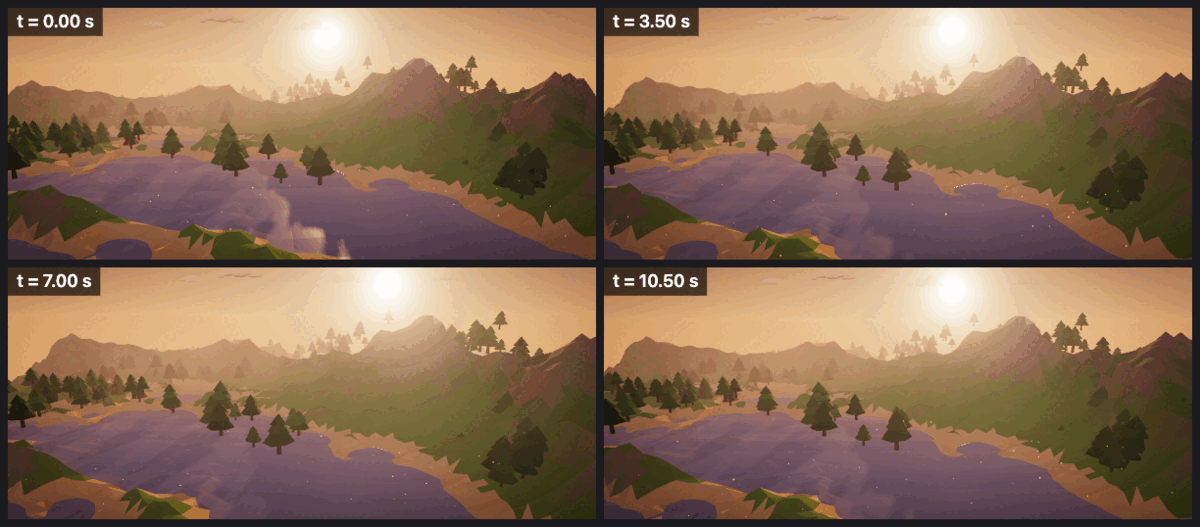
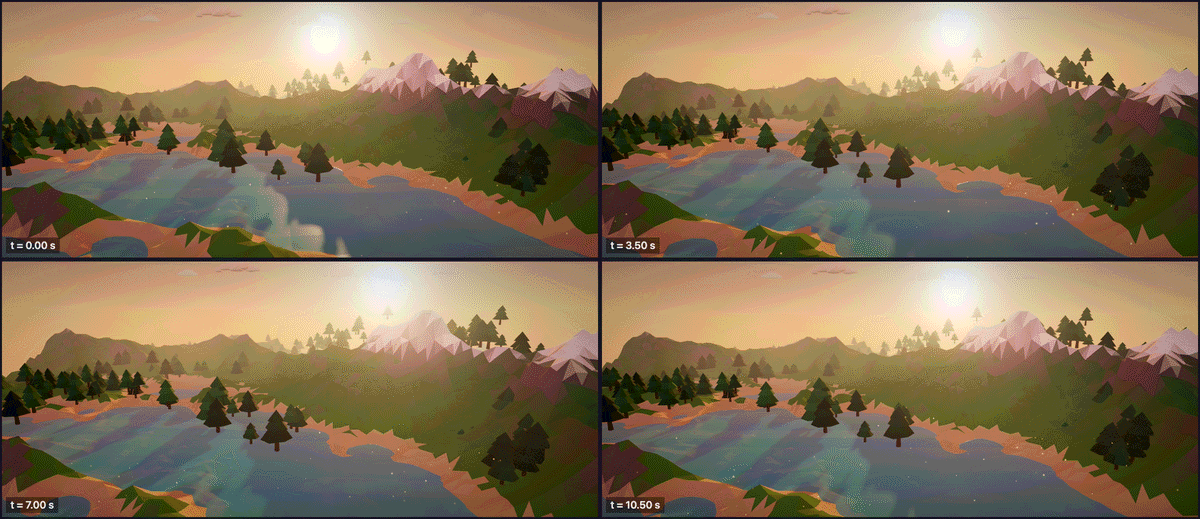
terrain: snowLine param (snow caps above a height fraction); landscape-valley-sunset: snowy peaks, teal lake, lighter fog

diff --git a/src/core/catalog.ts b/src/core/catalog.ts
@@ -144,7 +144,7 @@ export const GENERATORS: CatalogEntry[] = [
   {
     id: "terrain",
     description: "Heightmap terrain with colour bands (low-poly or smooth): hills, mountains, islands, dunes.",
-    params: [n("size", "Width/depth.", 40, 0), i("resolution", "Grid cells per side.", 96, 8, 512), n("height", "Max height.", 6, 0), n("scale", "Noise scale (bigger = wider features).", 1, 0), i("octaves", "Detail levels.", 5, 1, 8), e("shape", "Overall shape.", ["hills", "mountains", "island", "dunes", "canyon", "flat"], "hills"), cs("palette", "Colours from low to high (sand, grass, rock, snow).", ["#e2c290", "#6aa84f", "#38761d", "#7f6a5d", "#ffffff"]), b("lowpoly", "Faceted shading.", true), n("waterLevel", "Water surface height in world units (absolute, not a fraction of height); null = no water.", 0.6), c("waterColor", "Water colour.", "#3d9bd6")],
+    params: [n("size", "Width/depth.", 40, 0), i("resolution", "Grid cells per side.", 96, 8, 512), n("height", "Max height.", 6, 0), n("scale", "Noise scale (bigger = wider features).", 1, 0), i("octaves", "Detail levels.", 5, 1, 8), e("shape", "Overall shape.", ["hills", "mountains", "island", "dunes", "canyon", "flat"], "hills"), cs("palette", "Colours from low to high (sand, grass, rock, snow).", ["#e2c290", "#6aa84f", "#38761d", "#7f6a5d", "#ffffff"]), b("lowpoly", "Faceted shading.", true), n("waterLevel", "Water surface height in world units (absolute, not a fraction of height); null = no water.", 0.6), c("waterColor", "Water colour.", "#3d9bd6"), n("snowLine", "Height fraction (0..1, above the water) where the last palette colour (snow) caps the peaks; 1 = summit only.", 1, 0, 1)],
     cost: "resolution^2*2",
     material: "The ground (not the water plane). Without colour / preset / map the palette bands are kept (e.g. { \"roughness\": 0.6, \"flatShading\": false }).",
   },

diff --git a/src/runtime/generators/generators.test.ts b/src/runtime/generators/generators.test.ts
@@ -116,6 +116,19 @@ describe("generators", () => {
     expect(terrain.object.userData.waterLevel).toBe(0.6);
   });
 
+  it("terrain snowLine caps the high band with the last palette colour", async () => {
+    const whites = async (snowLine: number) => {
+      const t = await GENERATOR_IMPLS.terrain!({ resolution: 32, shape: "mountains", waterLevel: null, palette: ["#c9ad7f", "#5f8a3e", "#7a6a6e", "#ffffff"], snowLine }, makeCtx(1));
+      const col = (t.object.children[0] as THREE.Mesh).geometry.getAttribute("color");
+      let n = 0;
+      for (let i = 0; i < col.count; i++) if (col.getX(i) > 0.95 && col.getY(i) > 0.95 && col.getZ(i) > 0.95) n++;
+      return n / col.count;
+    };
+    const summit = await whites(1);
+    const capped = await whites(0.5);
+    expect(capped).toBeGreaterThan(summit + 0.03);
+  });
+
   it("terrain waterLevel null disables water", async () => {
     const t = await GENERATOR_IMPLS.terrain!({ resolution: 16, waterLevel: null }, makeCtx(1));
     expect(t.object.children.length).toBe(1);

diff --git a/src/runtime/generators/terrain.ts b/src/runtime/generators/terrain.ts
@@ -72,6 +72,7 @@ export const terrain: GeneratorImpl = (raw, ctx) => {
   const palette = p.colors("palette");
   const lowpoly = p.bool("lowpoly");
   const waterLevel = p.numOrNull("waterLevel");
+  const snowLine = p.num("snowLine");
   const ox = ctx.rng.range(-500, 500);
   const oz = ctx.rng.range(-500, 500);
   const h01 = terrainHeightFn(shape, size, p.num("scale"), p.int("octaves"), ox, oz);
@@ -125,6 +126,11 @@ export const terrain: GeneratorImpl = (raw, ctx) => {
     // steep → rock (second to last colour), except on the snow band
     const steep = smoothstep(0.5, 0.85, slope);
     if (steep > 0 && t < 0.9) out.lerp(palette[Math.max(1, pal - 2)]!, steep * 0.8);
+    // snow cap above snowLine (last colour); the steepest faces stay rocky
+    if (snowLine < 1 && pal >= 3 && t > snowLine - 0.04) {
+      const k = smoothstep(snowLine - 0.04, snowLine + 0.04, t) * (1 - smoothstep(0.75, 1.1, slope) * 0.7);
+      out.lerp(palette[pal - 1]!, k);
+    }
     return out;
   };
 

diff --git a/templates/landscape-valley-sunset/README.md b/templates/landscape-valley-sunset/README.md
@@ -1,6 +1,6 @@
 # Mountain valley at sunset
 
-A 21:9 golden-hour landscape, fully procedural: a low-poly `terrain` (shape `mountains`) with a lake filling the valley floor, 260 swaying pines, a low sun in a gradient sky, warm distance fog, pink clouds and fireflies near the camera. The camera drifts slowly on a 14 s loop and follows the pointer (parallax). Light bloom + vignette.
+A 21:9 golden-hour landscape, fully procedural: a low-poly `terrain` (shape `mountains`) with snow-capped peaks (`snowLine`) and a teal lake filling the valley floor, 260 swaying pines, a low sun in a gradient sky, warm distance fog, pink clouds and fireflies near the camera. The camera drifts slowly on a 14 s loop and follows the pointer (parallax). Light bloom + vignette.
 
 ## What to tweak
 
@@ -10,5 +10,7 @@ A 21:9 golden-hour landscape, fully procedural: a low-poly `terrain` (shape `mou
 | Time of day | `environment.background.sky` (`top`, `horizon`, `sun.direction` — y small = low sun), `environment.fog.color`, `lights#sun.color` |
 | Blue hour | sky `top: "#141b3d"`, `horizon: "#7a6fb0"`, fog `#57507f`, sun colour `#9fb2ff`, `environment.lighting: "night"` |
 | Forest | `objects#pines.params.count`, `.leafColors`, `.style` |
+| Snow | `objects#valley.params.snowLine` (0..1 height fraction; lower = more snow), last `palette` colour |
+| Lake colour | `objects#valley.params.waterColor` (keep it teal: blue water under warm fog turns purple) |
 | Haze depth | `environment.fog.near` / `.far` |
 | Motion | `timeline` camera keys, `camera.parallax.strength` |

diff --git a/docs/catalog.md b/docs/catalog.md
@@ -454,6 +454,7 @@ Heightmap terrain with colour bands (low-poly or smooth): hills, mountains, isla
 | `lowpoly` | boolean | `true` | Faceted shading. |
 | `waterLevel` | number | `0.6` | Water surface height in world units (absolute, not a fraction of height); null = no water. |
 | `waterColor` | color | `"#3d9bd6"` | Water colour. |
+| `snowLine` | number (0…1) | `1` | Height fraction (0..1, above the water) where the last palette colour (snow) caps the peaks; 1 = summit only. |
 
 ### `trees`
 
